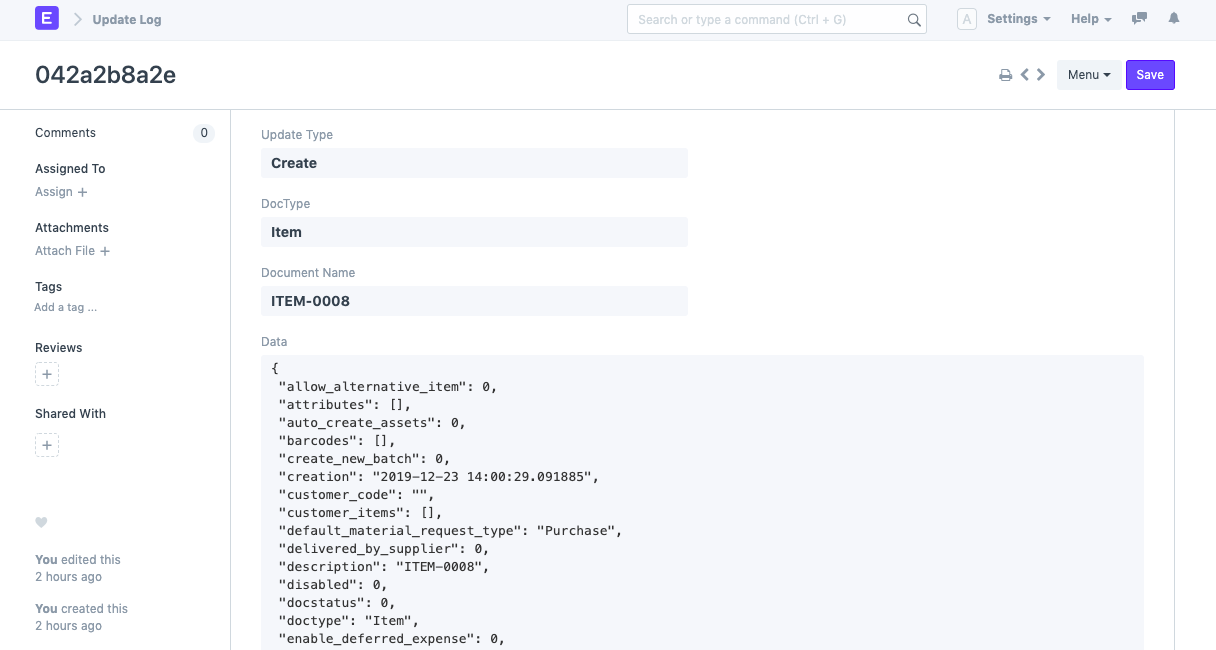
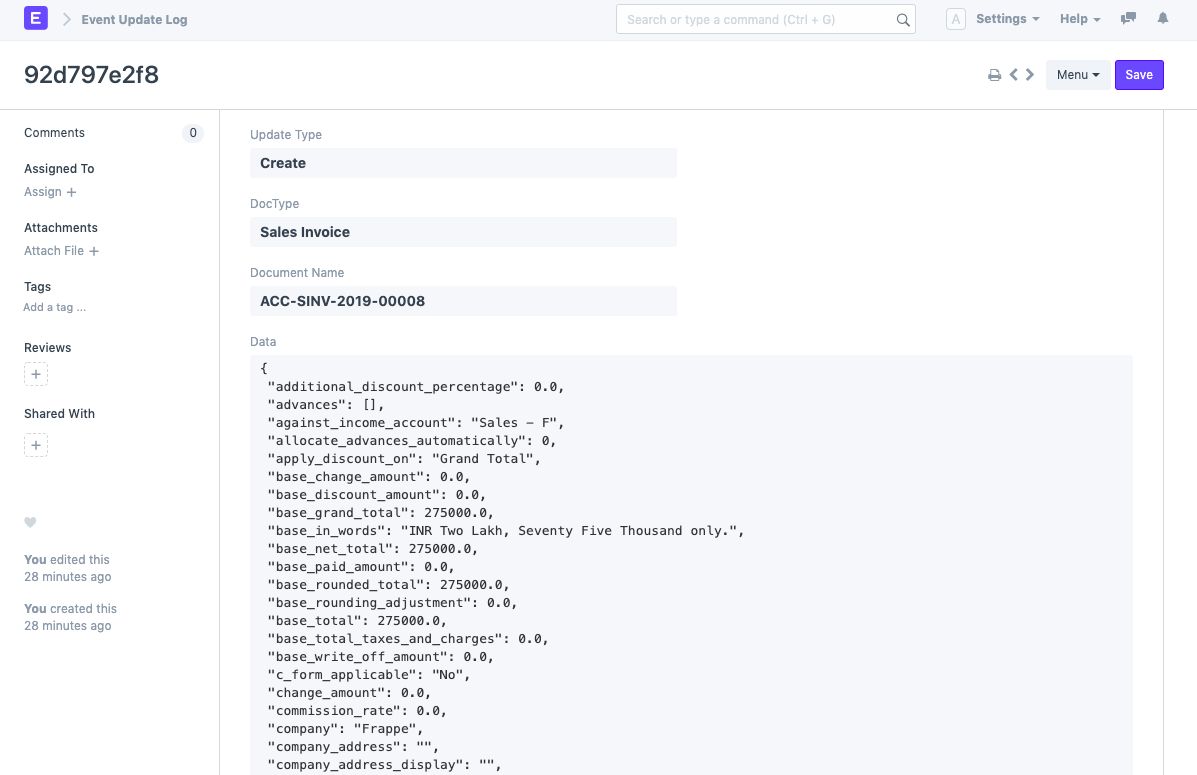
fix: change Update Log to Event Update Log

diff --git a/erpnext_com/www/docs/user/manual/en/erpnext_integration/event_streaming.md b/erpnext_com/www/docs/user/manual/en/erpnext_integration/event_streaming.md
@@ -10,9 +10,12 @@ For Example: If you have 4-5 companies hosted on different sites, one among them
 To access Event Streaming, go to:
 > Home > Integrations > Event Streaming
 
-## 1. How to set up Event Streaming
+## 1. Prerequisites
+Before creating an Event Producer, one same user needs to be created on both the sites which will be used to access the site and will act as an Event Subsciber. Make sure the user has the necessary permissions for creation, updation and deletion of the subscribed doctypes.
 
-### 1.1 Create an Event Producer
+## 2. How to set up Event Streaming
+
+### 2.1 Create an Event Producer
 1. The site which you want to subscribe to, is called as the Event Producer. Create an Event Producer document for the site you wish to get the updates from.
 2. Go to: **Home > Integrations > Event Streaming > Event Producer**.
 3. Enter the site URL of the site you want to subscribe to, in the Producer URL field.
@@ -24,7 +27,7 @@ To access Event Streaming, go to:
 
     ![Event Producer](/docs/assets/img/setup/integrations/event-producer-doc.png)
 
-### 1.2 Approve Event Consumer on the Event Producer site
+### 2.2 Approve Event Consumer on the Event Producer site
 1. After the Event Producer has been created, an Event Consumer automatically gets created on the other site. By default all the Subscribed Document Types have the status as 'Pending'. In order to enable the Event Consumer to consume the documents of these Document Types, their Status needs to be updated to 'Approved'.
 2. Go to: **Home > Integrations > Event Streaming > Event Consumer**.
 3. Once you open the Event Consumer document you will see all the Document Types that the consumer has subscribed to. Change the status from 'Pending' to 'Approved' for all the Document Types that you want to approve to be consumed. You can change the status to 'Rejected' if you do not want the documents of that Document Type to be consumed.
@@ -34,21 +37,21 @@ To access Event Streaming, go to:
 
 **Note**: Document updates for Subscribed Document Types won't be synced unless they are Approved.
 
-## 2. Features
+## 3. Features
 
-### 2.1 Update Log
-Update Log logs every create, update, delete for documents that have consumers on the Event Producer site.
-In order to view the Update Log:
+### 3.1 Event Update Log
+Event Update Log logs every create, update, delete for documents that have consumers on the Event Producer site.
+In order to view the Event Update Log:
 
-Go to: **Home > Integrations > Event Streaming > Update Log**.
+Go to: **Home > Integrations > Event Streaming > Event Update Log**.
 
 - For 'Create' type the Update Type, Document Type, Document Name and the entire document (as json) is logged.
 - For 'Update' type the Update Type, Document Type, Document Name and the updated data (difference between the previous state and current state of the document) is logged.
 - For 'Delete' type only the Update Type, Document Type and Document Name is logged.
 
-![Update Log](/docs/assets/img/setup/integrations/event-update-log-doc.png)
+![Event Update Log](/docs/assets/img/setup/integrations/event-update-log-doc.png)
 
-### 2.2 Event Sync Log
+### 3.2 Event Sync Log
 Like the Update Log, Event Sync Log logs every document synced from the Event Producer on the Event Consumer site.
 In order to view the Event Sync Log:
 
@@ -77,13 +80,13 @@ A failed event generates a log doc with the above fields along with:
 - **Resync Button**: It also provides a 'Resync' button in order to resync the failed event.
     ![Event Failed](/docs/assets/img/setup/integrations/event-failed.png)
 
-### 2.3 Dependency Syncing
+### 3.3 Dependency Syncing
 Certain Document Types have dependencies. For example, before syncing a Sales Invoice, the Item and Customer need to be present in the current site. So, Item and Customer are dependencies for Sales Invoice. Event Streaming handles this by on-demand dependency syncing. Whenever any document is to be synced, it first checks whether the document has any dependencies (Link fields, Dynamic Link fields, Child Table fields, etc.). If that dependency is not fullfilled i.e. the dependent document (eg: Item) is not present on your consumer site, it will be synced first and then the Sales Invoice will be synced.
 
 For example: Sales Invoice syncing with Item dependency
     ![Event Dependency](/docs/assets/img/setup/integrations/event-dependency-sync.gif)
 
-### 2.4 Naming Configuration
+### 3.4 Naming Configuration
 Check the 'Use Same Name' checkbox to let the documents have same name on both Event Producer and Event Consumer sites. If this is not checked, then the document will be created using the naming conventions of the current site.
 
 ![Use Same Name Config](/docs/assets/img/setup/integrations/event-use-same-name.png)
@@ -92,7 +95,7 @@ Check the 'Use Same Name' checkbox to let the documents have same name on both E
 
 ![Subscribed Document](/docs/assets/img/setup/integrations/event-subscribed-doc.png)
 
-### 2.5 Mapping Configuration
+### 3.5 Mapping Configuration
 If you want to stream documents between an ERPNext instance and another Frappe app for a particular Document Type which has the same structure but fieldnames are different in both the sites, you can use Event Streaming with Mapping Configuration.
 For this you need to first set up a Document Type Mapping:
 
